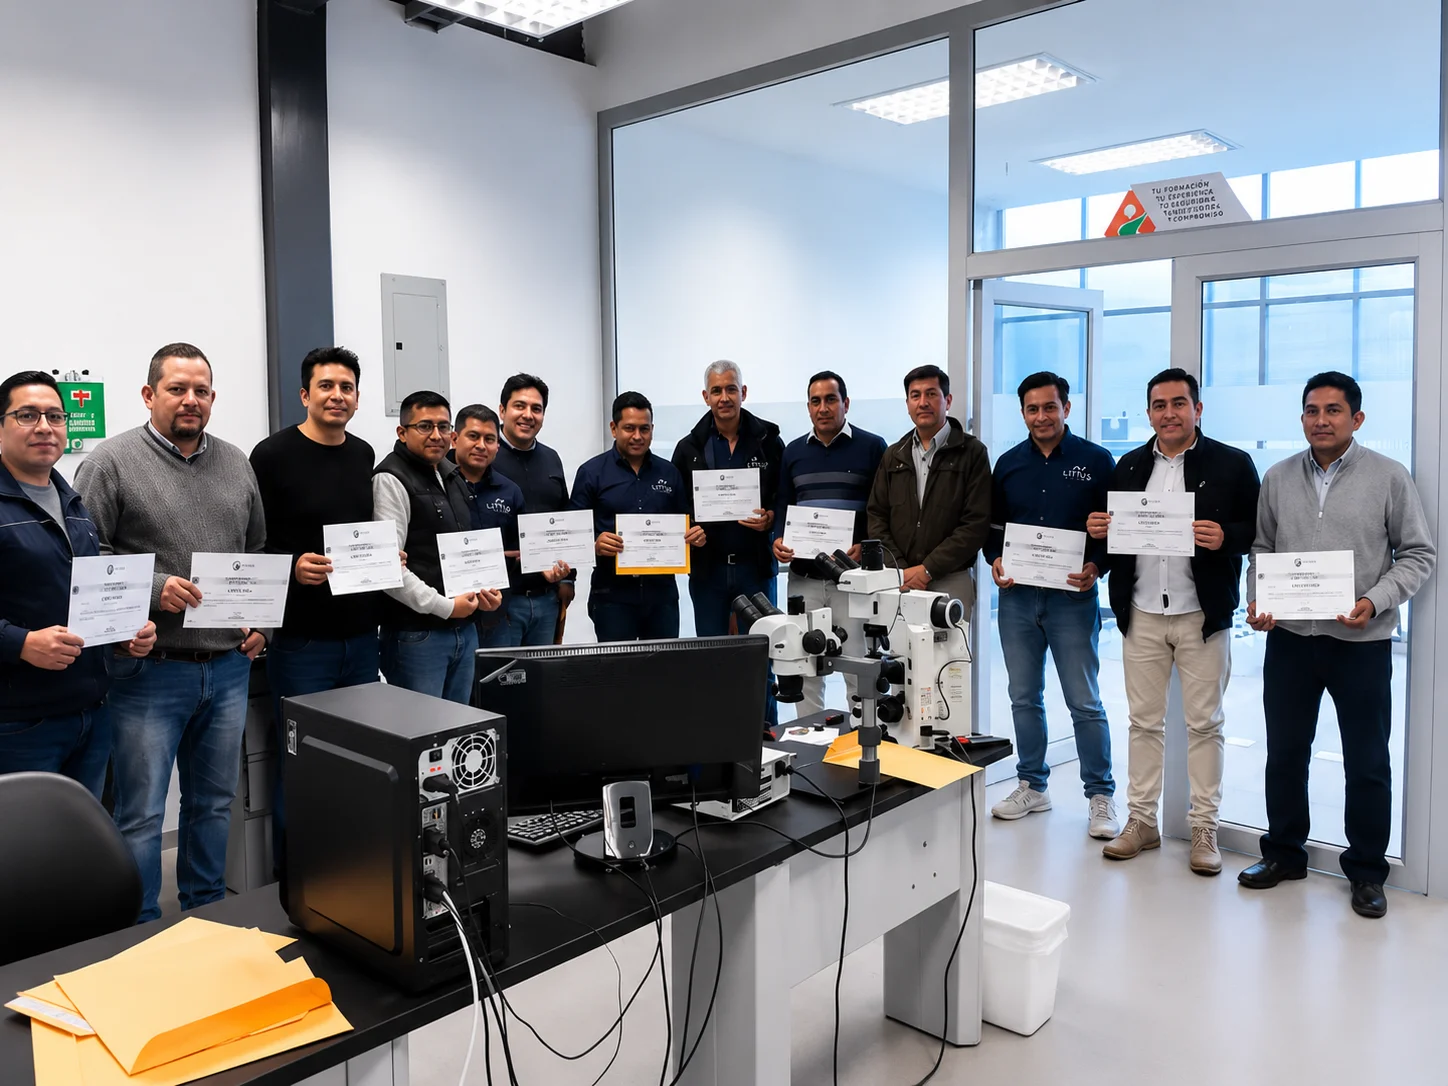
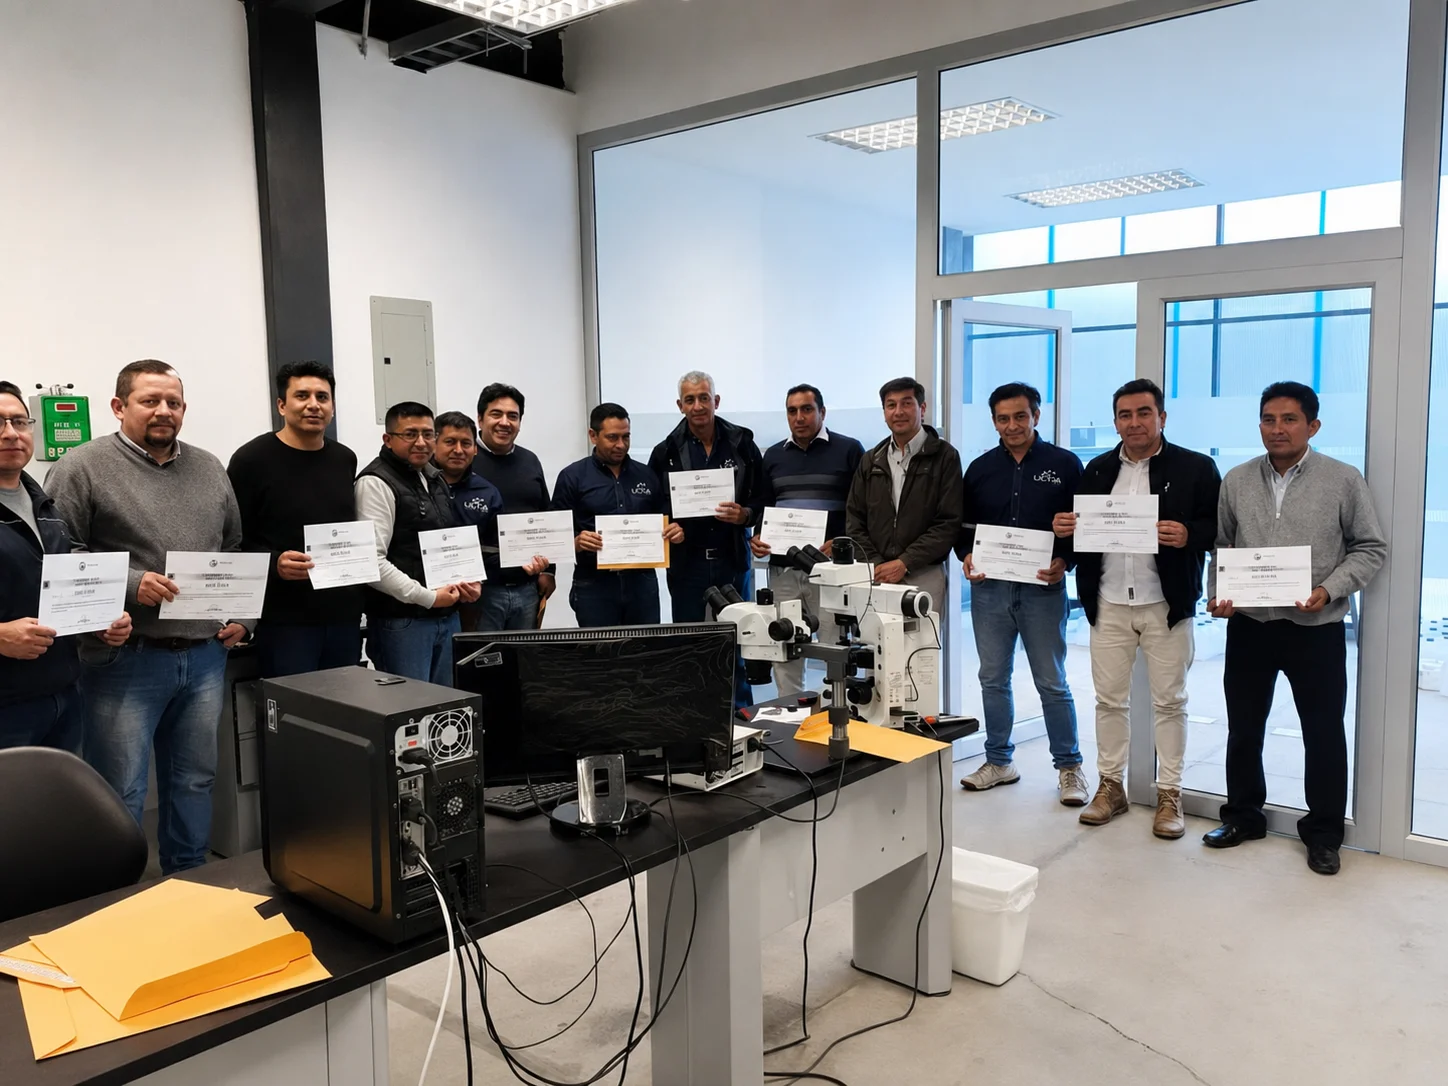
adding asnt, aws intructor stamp

diff --git a/public/index.html b/public/index.html
@@ -226,44 +226,50 @@
           <div class="instructor-intro">
             <p class="section-eyebrow">Instructor</p>
             <h2>Conoce a Marco Aucancela</h2>
-            <p class="speaker-lead">
-              Ingeniero Mecánico y profesional con más de 20 años de
-              experiencia en inspección industrial en los sectores Oil &amp;
-              Gas, Petroquímica y Energía.
-            </p>
           </div>
 
           <div class="speaker-layout">
-            <figure class="speaker-photo">
-              <img
-                src="src/foto_instructor.png"
-                alt="Marco Aucancela, instructor de Ultrasonido - Interpretación del Scan A"
-                width="1024"
-                height="1024"
-                loading="lazy"
-                decoding="async"
-              />
-              <figcaption class="speaker-identity">
-                <strong>Marco Aucancela</strong>
-                <span>Ingeniero Mecánico · Inspección industrial</span>
-              </figcaption>
-            </figure>
+            <div class="speaker-media">
+              <figure class="speaker-photo">
+                <img
+                  src="src/foto_instructor.webp"
+                  alt="Marco Aucancela, instructor de Ultrasonido - Interpretación del Scan A"
+                  width="1024"
+                  height="1024"
+                  loading="lazy"
+                  decoding="async"
+                />
+                <figcaption class="speaker-identity">
+                  <strong>Marco Aucancela</strong>
+                  <span>Ingeniero Mecánico</span>
+                </figcaption>
+              </figure>
+              <div class="instructor-logos" aria-label="Credenciales del instructor">
+                <img
+                  src="src/moag_asnt.webp"
+                  alt="ASNT Nivel III, UT, VT, MT y PT"
+                  width="992"
+                  height="720"
+                  loading="lazy"
+                  decoding="async"
+                />
+                <img
+                  src="src/moag_aws.webp"
+                  alt="AWS SCWI, Inspector Senior de Soldadura"
+                  width="992"
+                  height="720"
+                  loading="lazy"
+                  decoding="async"
+                />
+              </div>
+            </div>
 
             <div class="speaker-content">
-              <div class="speaker-highlights" aria-label="Trayectoria destacada">
-                <div>
-                  <strong>Más de 20 años</strong>
-                  <span>de experiencia profesional</span>
-                </div>
-                <div>
-                  <strong>AWS SCWI</strong>
-                  <span>Inspector Senior de Soldadura</span>
-                </div>
-                <div>
-                  <strong>ASNT Nivel III</strong>
-                  <span>UT, VT, MT y PT</span>
-                </div>
-              </div>
+              <p class="speaker-lead">
+                Ingeniero Mecánico y profesional con más de 20 años de
+                experiencia en inspección industrial en los sectores Oil &amp;
+                Gas, Petroquímica y Energía.
+              </p>
 
               <div class="speaker-details">
                 <article>
@@ -294,7 +300,7 @@
                 </article>
               </div>
 
-              <div class="speaker-action">
+              <div class="speaker-action speaker-action--spaced">
                 <p>Aprende con experiencia técnica en inspección industrial.</p>
                 <a class="btn-primary" href="#inscripcion">Apúntate gratis</a>
               </div>

diff --git a/public/styles.css b/public/styles.css
@@ -97,21 +97,19 @@ form { display: grid; gap: var(--space-md); margin-top: var(--space-lg); }
 .instructor-section { position: relative; overflow: hidden; border-block: 1px solid var(--eccia-border); background: radial-gradient(ellipse 55% 45% at 12% 38%, var(--eccia-accent-glow), transparent 72%), var(--eccia-bg-soft); }
 .instructor-intro { display: grid; grid-template-columns: minmax(0, .8fr) minmax(300px, 1.2fr); gap: var(--space-3xl); align-items: end; margin-bottom: var(--space-2xl); }
 .instructor-intro .section-eyebrow { grid-column: 1 / -1; margin-bottom: calc(var(--space-2xl) * -1); }
-.instructor-intro h2, .instructor-intro .speaker-lead { margin-bottom: 0; }
-.instructor-intro .speaker-lead { max-width: 680px; font-size: 1.05rem; line-height: 1.75; }
+.instructor-intro h2 { margin-bottom: 0; }
+.speaker-lead { max-width: 680px; margin-bottom: 0; font-size: 1.05rem; line-height: 1.75; }
 .speaker-layout { display: grid; grid-template-columns: minmax(300px, .72fr) minmax(0, 1.28fr); gap: clamp(var(--space-xl), 5vw, var(--space-3xl)); align-items: start; }
-.speaker-photo { position: relative; min-height: 540px; margin: 0; overflow: hidden; border: 1px solid var(--eccia-border-strong); border-radius: var(--eccia-layout-radius); background: var(--eccia-surface); }
-.speaker-photo::after { content: ""; position: absolute; inset: 45% 0 0; pointer-events: none; background: linear-gradient(180deg, transparent, rgba(10,14,19,.96)); }
+.speaker-media { display: grid; gap: var(--space-lg); align-content: start; }
+.speaker-photo { position: relative; min-height: 540px; margin: 0; overflow: hidden; border: 0; border-radius: var(--eccia-layout-radius); background: transparent; }
+.speaker-photo::after { content: none; }
 .speaker-photo img { display: block; width: 100%; height: 100%; min-height: 540px; object-fit: cover; object-position: center top; }
 .speaker-identity { position: absolute; z-index: 1; inset: auto var(--space-lg) var(--space-lg); display: grid; gap: var(--space-2xs); }
 .speaker-identity strong { color: var(--eccia-text); font-family: var(--font-display); font-size: 1.25rem; }
 .speaker-identity span { color: var(--eccia-text-soft); font-size: .875rem; font-weight: 500; }
-.speaker-content { display: grid; gap: var(--space-xl); }
-.speaker-highlights { display: grid; grid-template-columns: repeat(3, 1fr); border: 1px solid var(--eccia-border); border-radius: var(--eccia-layout-radius); background: var(--eccia-surface); }
-.speaker-highlights > div { display: grid; align-content: start; gap: var(--space-xs); min-height: 132px; padding: var(--space-lg); }
-.speaker-highlights > div + div { border-left: 1px solid var(--eccia-border); }
-.speaker-highlights strong { color: var(--eccia-accent); font-family: var(--font-display); font-size: 1.05rem; line-height: 1.25; }
-.speaker-highlights span { color: var(--eccia-text-soft); font-size: .875rem; line-height: 1.5; }
+.instructor-logos { display: flex; align-items: center; justify-content: center; gap: var(--space-sm); padding-inline: var(--space-sm); }
+.instructor-logos img { width: clamp(190px, 17vw, 260px); height: auto; display: block; object-fit: contain; }
+.speaker-content { display: grid; align-content: start; gap: var(--space-xl); }
 .speaker-details { border-top: 1px solid var(--eccia-border-strong); }
 .speaker-details article { display: grid; grid-template-columns: 42px minmax(130px, .36fr) minmax(0, 1fr); gap: var(--space-lg); align-items: start; padding: var(--space-lg) 0; border-bottom: 1px solid var(--eccia-border); }
 .speaker-detail-index { color: var(--eccia-accent); font-size: .8125rem; font-weight: 700; letter-spacing: .08em; }
@@ -119,9 +117,10 @@ form { display: grid; gap: var(--space-md); margin-top: var(--space-lg); }
 .speaker-details ul { display: grid; gap: var(--space-xs); margin: 0; padding: 0; color: var(--eccia-text-soft); list-style: none; }
 .speaker-details li { position: relative; padding-left: var(--space-md); line-height: 1.55; }
 .speaker-details li::before { content: ""; position: absolute; top: .7em; left: 0; width: 5px; height: 5px; border-radius: 50%; background: var(--eccia-accent); }
-.speaker-action { display: flex; align-items: center; justify-content: space-between; gap: var(--space-lg); padding-top: var(--space-xs); }
+.speaker-action { display: flex; align-items: center; justify-content: space-between; gap: var(--space-lg); margin-top: var(--space-lg); padding-top: var(--space-md); }
 .speaker-action p { max-width: 480px; margin: 0; color: var(--eccia-text-soft); }
 .speaker-action .btn-primary { flex: 0 0 auto; }
+.speaker-action--spaced{ padding-top: 80px;}
 .authority-section { overflow: hidden; background: var(--eccia-surface); }
 .authority-layout { display: grid; grid-template-columns: minmax(0, 1.1fr) minmax(340px, .9fr); gap: clamp(var(--space-2xl), 6vw, var(--space-4xl)); align-items: center; }
 .authority-media { position: relative; min-height: 480px; margin: 0; overflow: hidden; border-radius: var(--eccia-layout-radius); background: var(--eccia-bg-soft); }
@@ -186,6 +185,7 @@ footer { border-top: 1px solid var(--eccia-border); background: var(--eccia-bg-s
   .card-grid { grid-template-columns: 1fr; }
   .takeaway-card { min-height: 0; }
   .speaker-photo, .speaker-photo img { min-height: 500px; }
+  .instructor-logos { justify-content: center; }
 }
 @media (max-width: 680px) {
   .header-inner { min-height: 76px; }
@@ -201,9 +201,8 @@ footer { border-top: 1px solid var(--eccia-border); background: var(--eccia-bg-s
   .topic-list li { grid-template-columns: 36px 1fr; gap: var(--space-sm); padding-inline: 0; }
   .takeaway-card { min-height: 0; }
   .speaker-photo, .speaker-photo img { min-height: 400px; }
-  .speaker-highlights { grid-template-columns: 1fr; }
-  .speaker-highlights > div { min-height: auto; }
-  .speaker-highlights > div + div { border-top: 1px solid var(--eccia-border); border-left: 0; }
+  .instructor-logos { gap: var(--space-2xs); padding-inline: var(--space-lg); }
+  .instructor-logos img { width: min(44vw, 210px); }
   .speaker-details article { grid-template-columns: 36px 1fr; gap: var(--space-sm); }
   .speaker-details ul { grid-column: 2; }
   .speaker-action { align-items: stretch; flex-direction: column; }